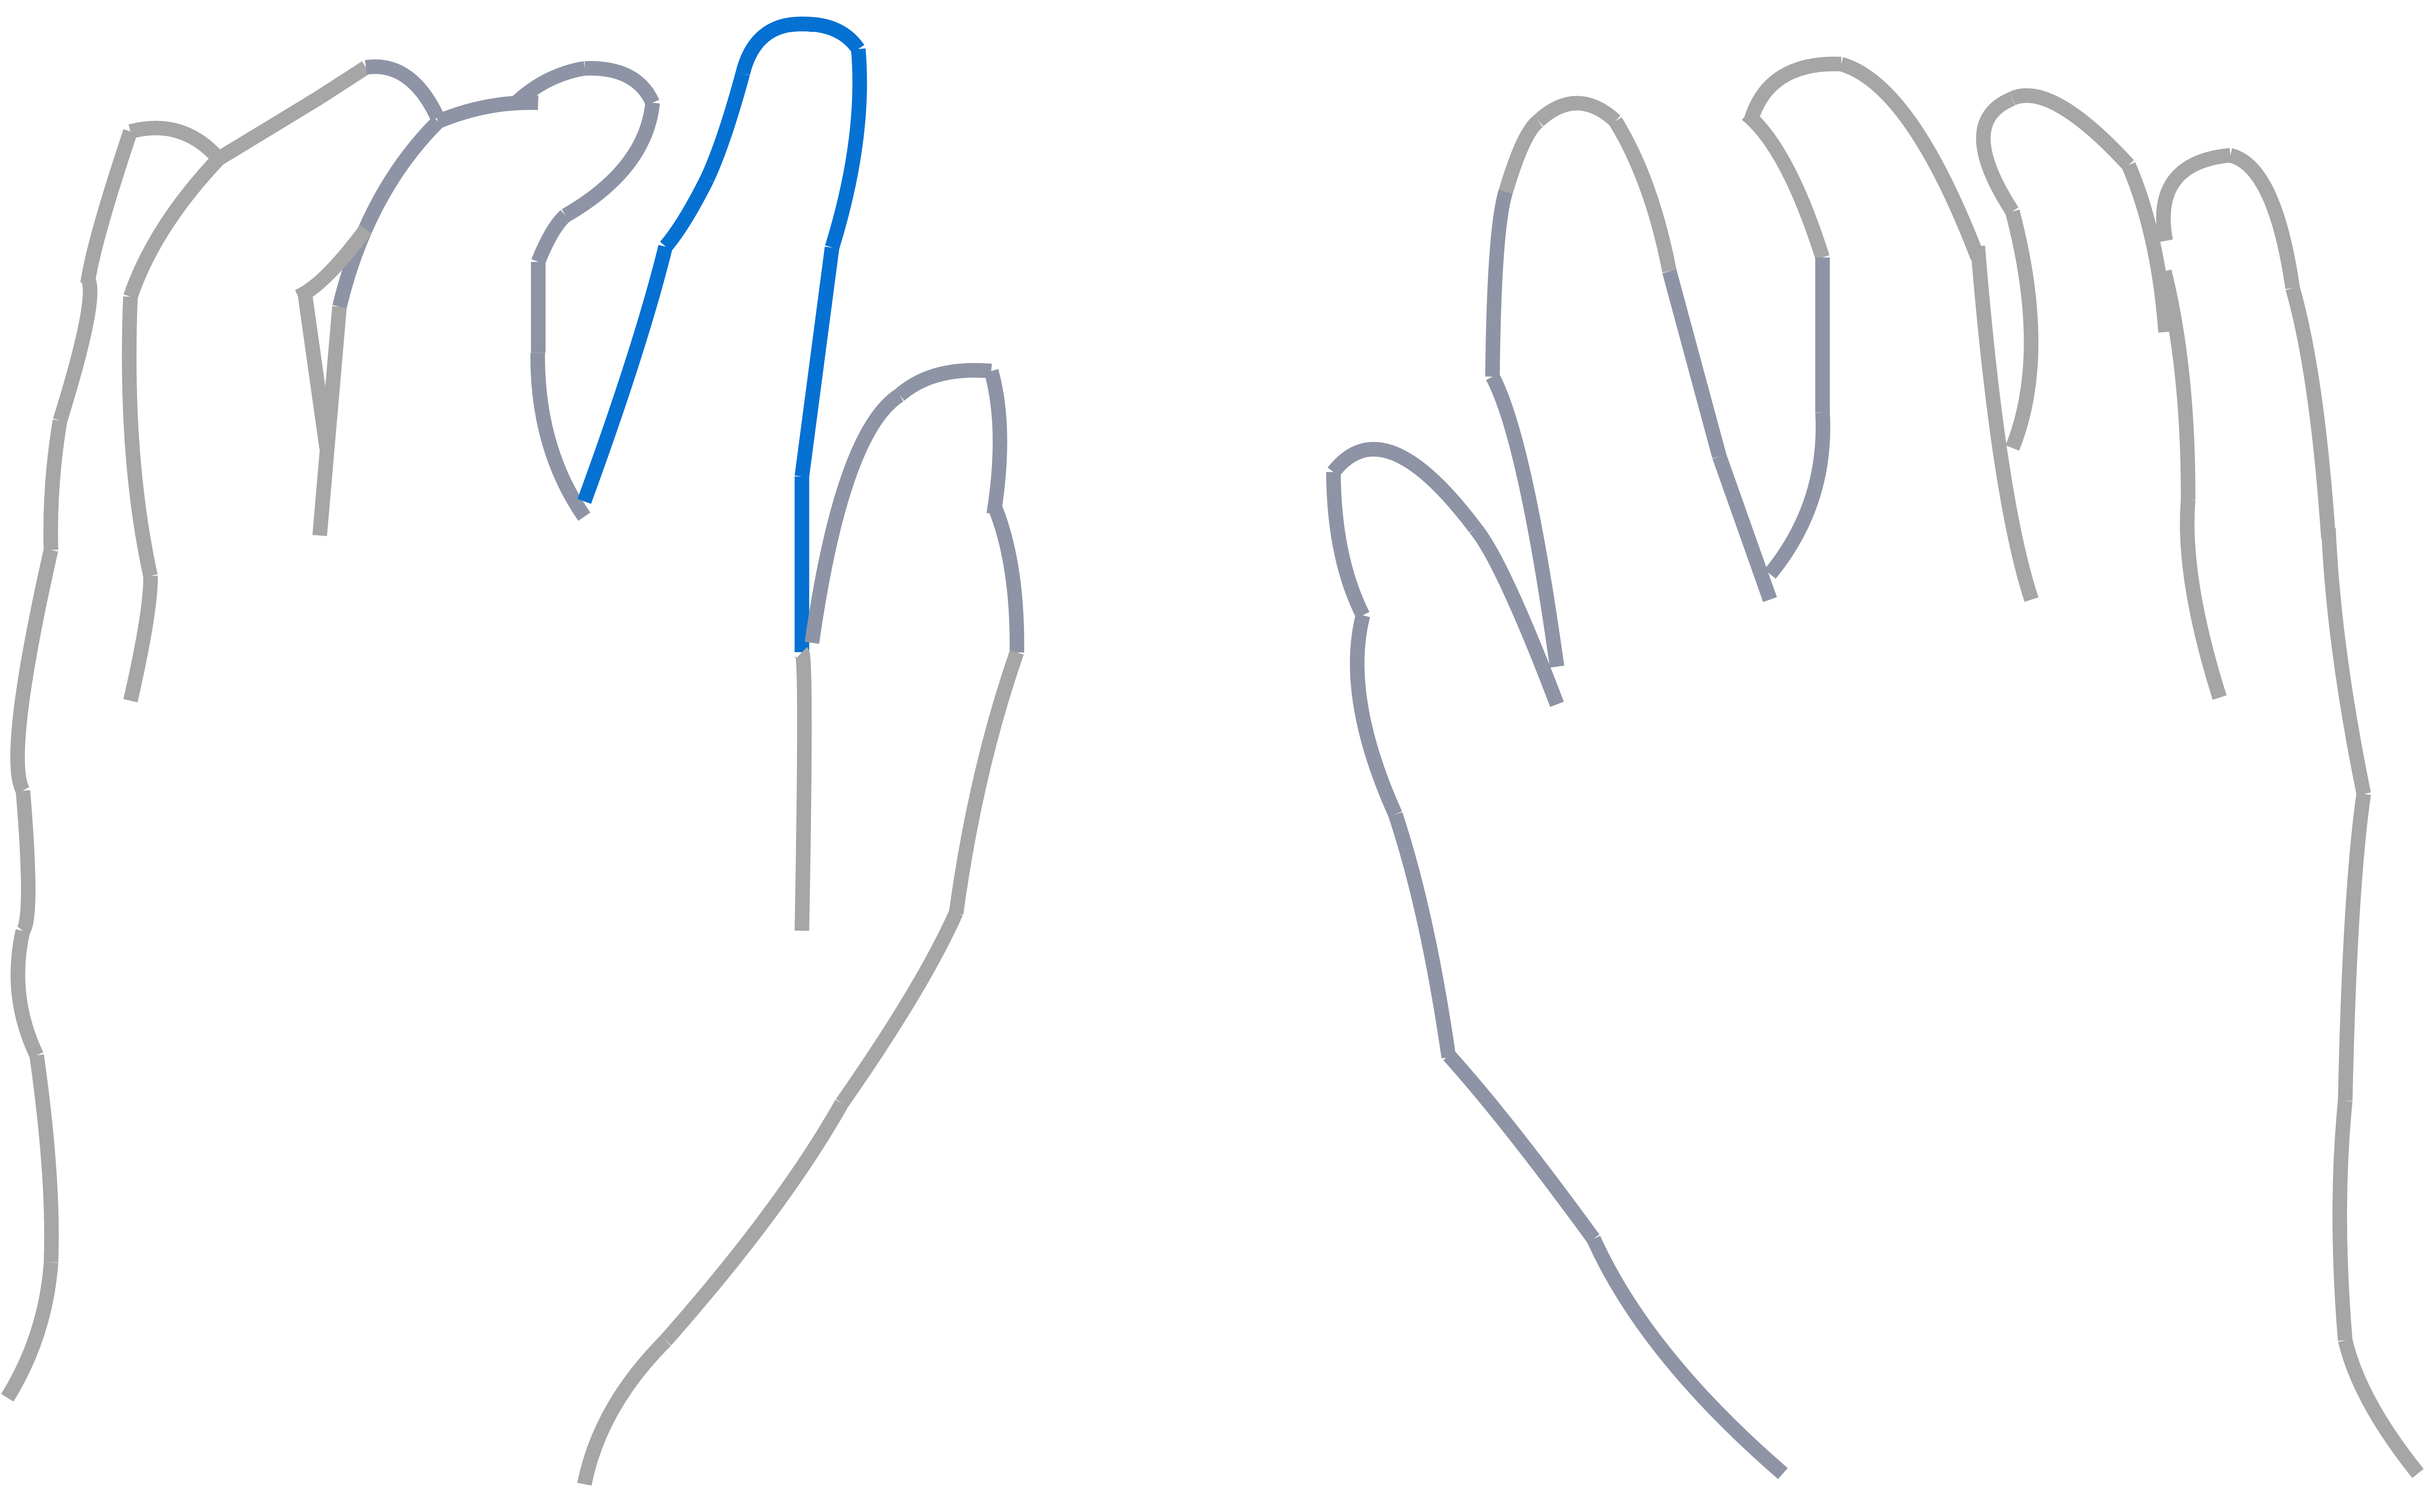
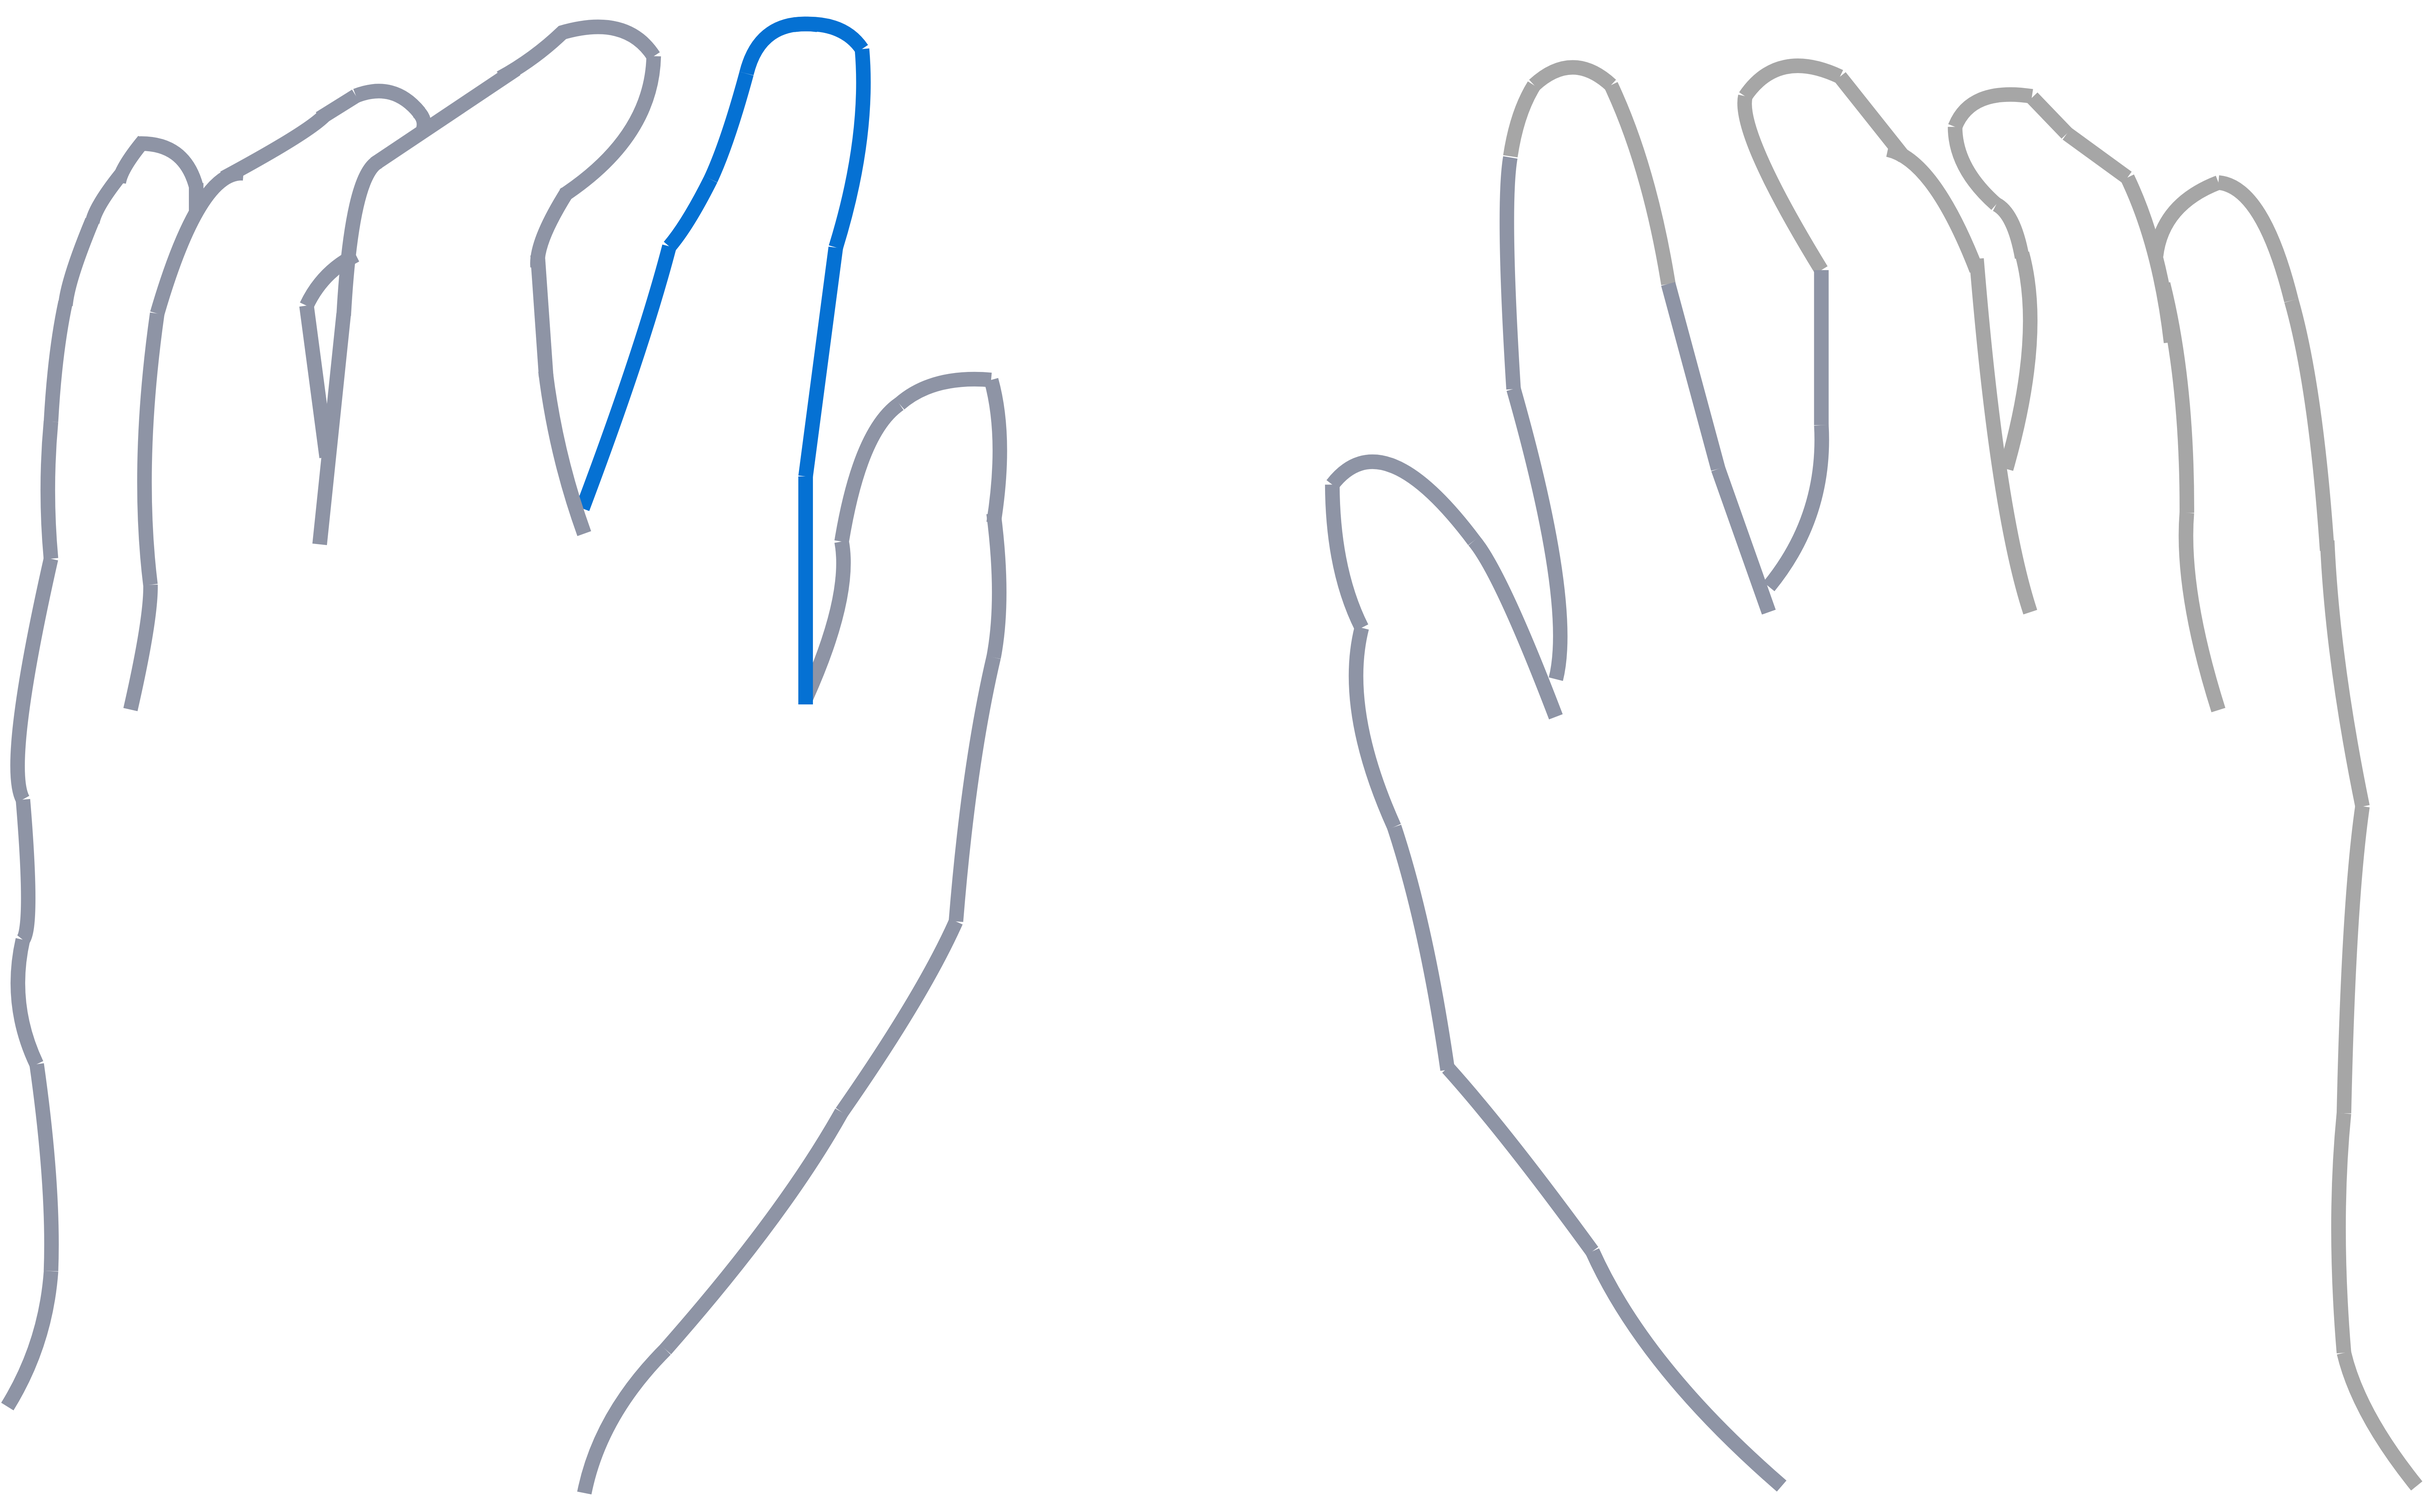
Penambahan gambar tangan untuk tombol 'd' dan 'k'

diff --git a/learn-typing.html b/learn-typing.html
@@ -95,6 +95,8 @@
                 <img id="hand-f" class="hand-image" src="img/hand_f.png" alt="Tangan untuk tombol F">
                 <img id="hand-j" class="hand-image" src="img/hand_j.png" alt="Tangan untuk tombol J">
                 <img id="hand-space" class="hand-image" src="img/hand_space.png" alt="Tangan untuk tombol spasi">
+                <img id="hand-d" class="hand-image" src="img/hand_d.png" alt="Tangan untuk tombol D">
+                <img id="hand-k" class="hand-image" src="img/hand_k.png" alt="Tangan untuk tombol K">
             </div>
         </div>
         <button id="next-lesson-btn" class="btn btn-primary">

diff --git a/js/hand-visualizer.js b/js/hand-visualizer.js
@@ -4,7 +4,7 @@ const keyFingerMap = {
     'j': { id: 'hand-j', adjust: { x: '-62%', y: '-5%' } },
     ' ': { id: 'hand-space', adjust: { x: '-48%', y: '-35%' } },
     'd': { id: 'hand-d', adjust: { x: '-25%', y: '-5%' } },
-    'k': { id: 'hand-k', adjust: { x: '-70%', y: '-5%' } },
+    'k': { id: 'hand-k', adjust: { x: '-73%', y: '-7%' } },
     // Tambahkan kunci lain di sini sesuai kebutuhan pelajaran
 };
 
